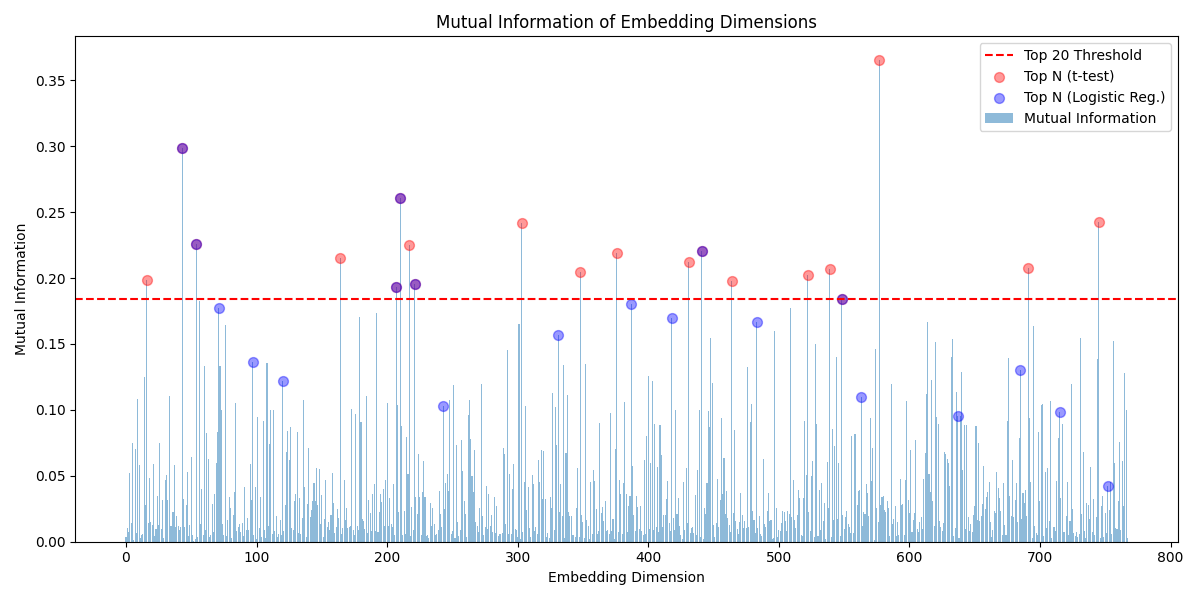
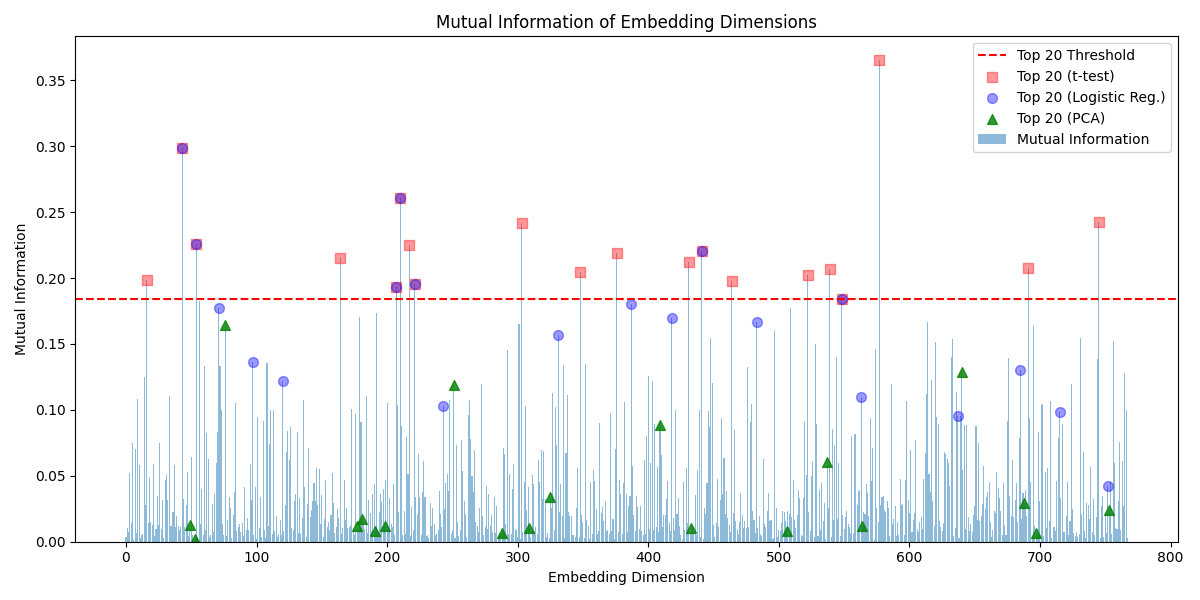
added PCA to combined graphs

diff --git a/generate_combined_graph.py b/generate_combined_graph.py
@@ -6,13 +6,15 @@ from tqdm import tqdm
 from utils import *
 
 
-def create_combined_graph(mutual_info_df, ttest_results_df, clf_weights_df, results_directory, N=20):
+def create_combined_graph(mutual_info_df, ttest_results_df, clf_weights_df, pca_contribs_df, results_directory, N=20):
    
     mutual_informations = mutual_info_df['Mutual_Information'].values
 
     top_N_ttest_dimensions = ttest_results_df.nsmallest(N, 'p_value')['dimension'].values
 
     top_N_clf_dimensions = clf_weights_df.nlargest(N, 'Weight')['Dimension'].values
+
+    top_N_pca_contribs = pca_contribs_df.nlargest(N, 'Contribution')['Dimension'].values
 
     plt.figure(figsize=(12, 6))
 
@@ -21,8 +23,9 @@ def create_combined_graph(mutual_info_df, ttest_results_df, clf_weights_df, resu
     threshold = np.sort(mutual_informations)[-N]
     plt.axhline(y=threshold, color='r', linestyle='--', label=f'Top {N} Threshold')
 
-    plt.scatter(top_N_ttest_dimensions, mutual_informations[top_N_ttest_dimensions], color='red', label='Top N (t-test)', s=50, alpha=0.4)
-    plt.scatter(top_N_clf_dimensions, mutual_informations[top_N_clf_dimensions], color='blue', label='Top N (Logistic Reg.)', s=50, alpha=0.4)
+    plt.scatter(top_N_ttest_dimensions, mutual_informations[top_N_ttest_dimensions], color='red', marker='s', label=f'Top {N} (t-test)', s=50, alpha=0.4)
+    plt.scatter(top_N_clf_dimensions, mutual_informations[top_N_clf_dimensions], color='blue', label=f'Top {N} (Logistic Reg.)', s=50, alpha=0.4)
+    plt.scatter(top_N_pca_contribs, mutual_informations[top_N_pca_contribs], color='green', marker='^', label=f'Top {N} (PCA)', s=50, alpha=0.8)
 
     plt.xlabel("Embedding Dimension")
     plt.ylabel("Mutual Information")
@@ -42,11 +45,12 @@ if __name__ == "__main__":
     embedding_filepaths = get_embeddings_filepaths()
 
     for embeddings_csv in tqdm(embedding_filepaths):
-
         results_directory = get_results_directory(embeddings_csv, "combined_analysis")
 
         mutual_info_df = pd.read_csv(os.path.join(get_results_directory(embeddings_csv, "mutual_information"), "mutual_information_all.csv"))
         ttest_results_df = pd.read_csv(os.path.join(get_results_directory(embeddings_csv, "t_test_analysis"), "t_test_results.csv"))
         clf_weights_df = pd.read_csv(os.path.join(get_results_directory(embeddings_csv, "logistic_classifier"), "classifier_weights.csv"))
+        pca_contribs_df = pd.read_csv(os.path.join(get_results_directory(embeddings_csv, "pca_analysis"), "pca_all.csv"))
 
-        create_combined_graph(mutual_info_df, ttest_results_df, clf_weights_df, results_directory, N=20)
+        create_combined_graph(mutual_info_df, ttest_results_df, clf_weights_df, pca_contribs_df, results_directory, N=20)
+
